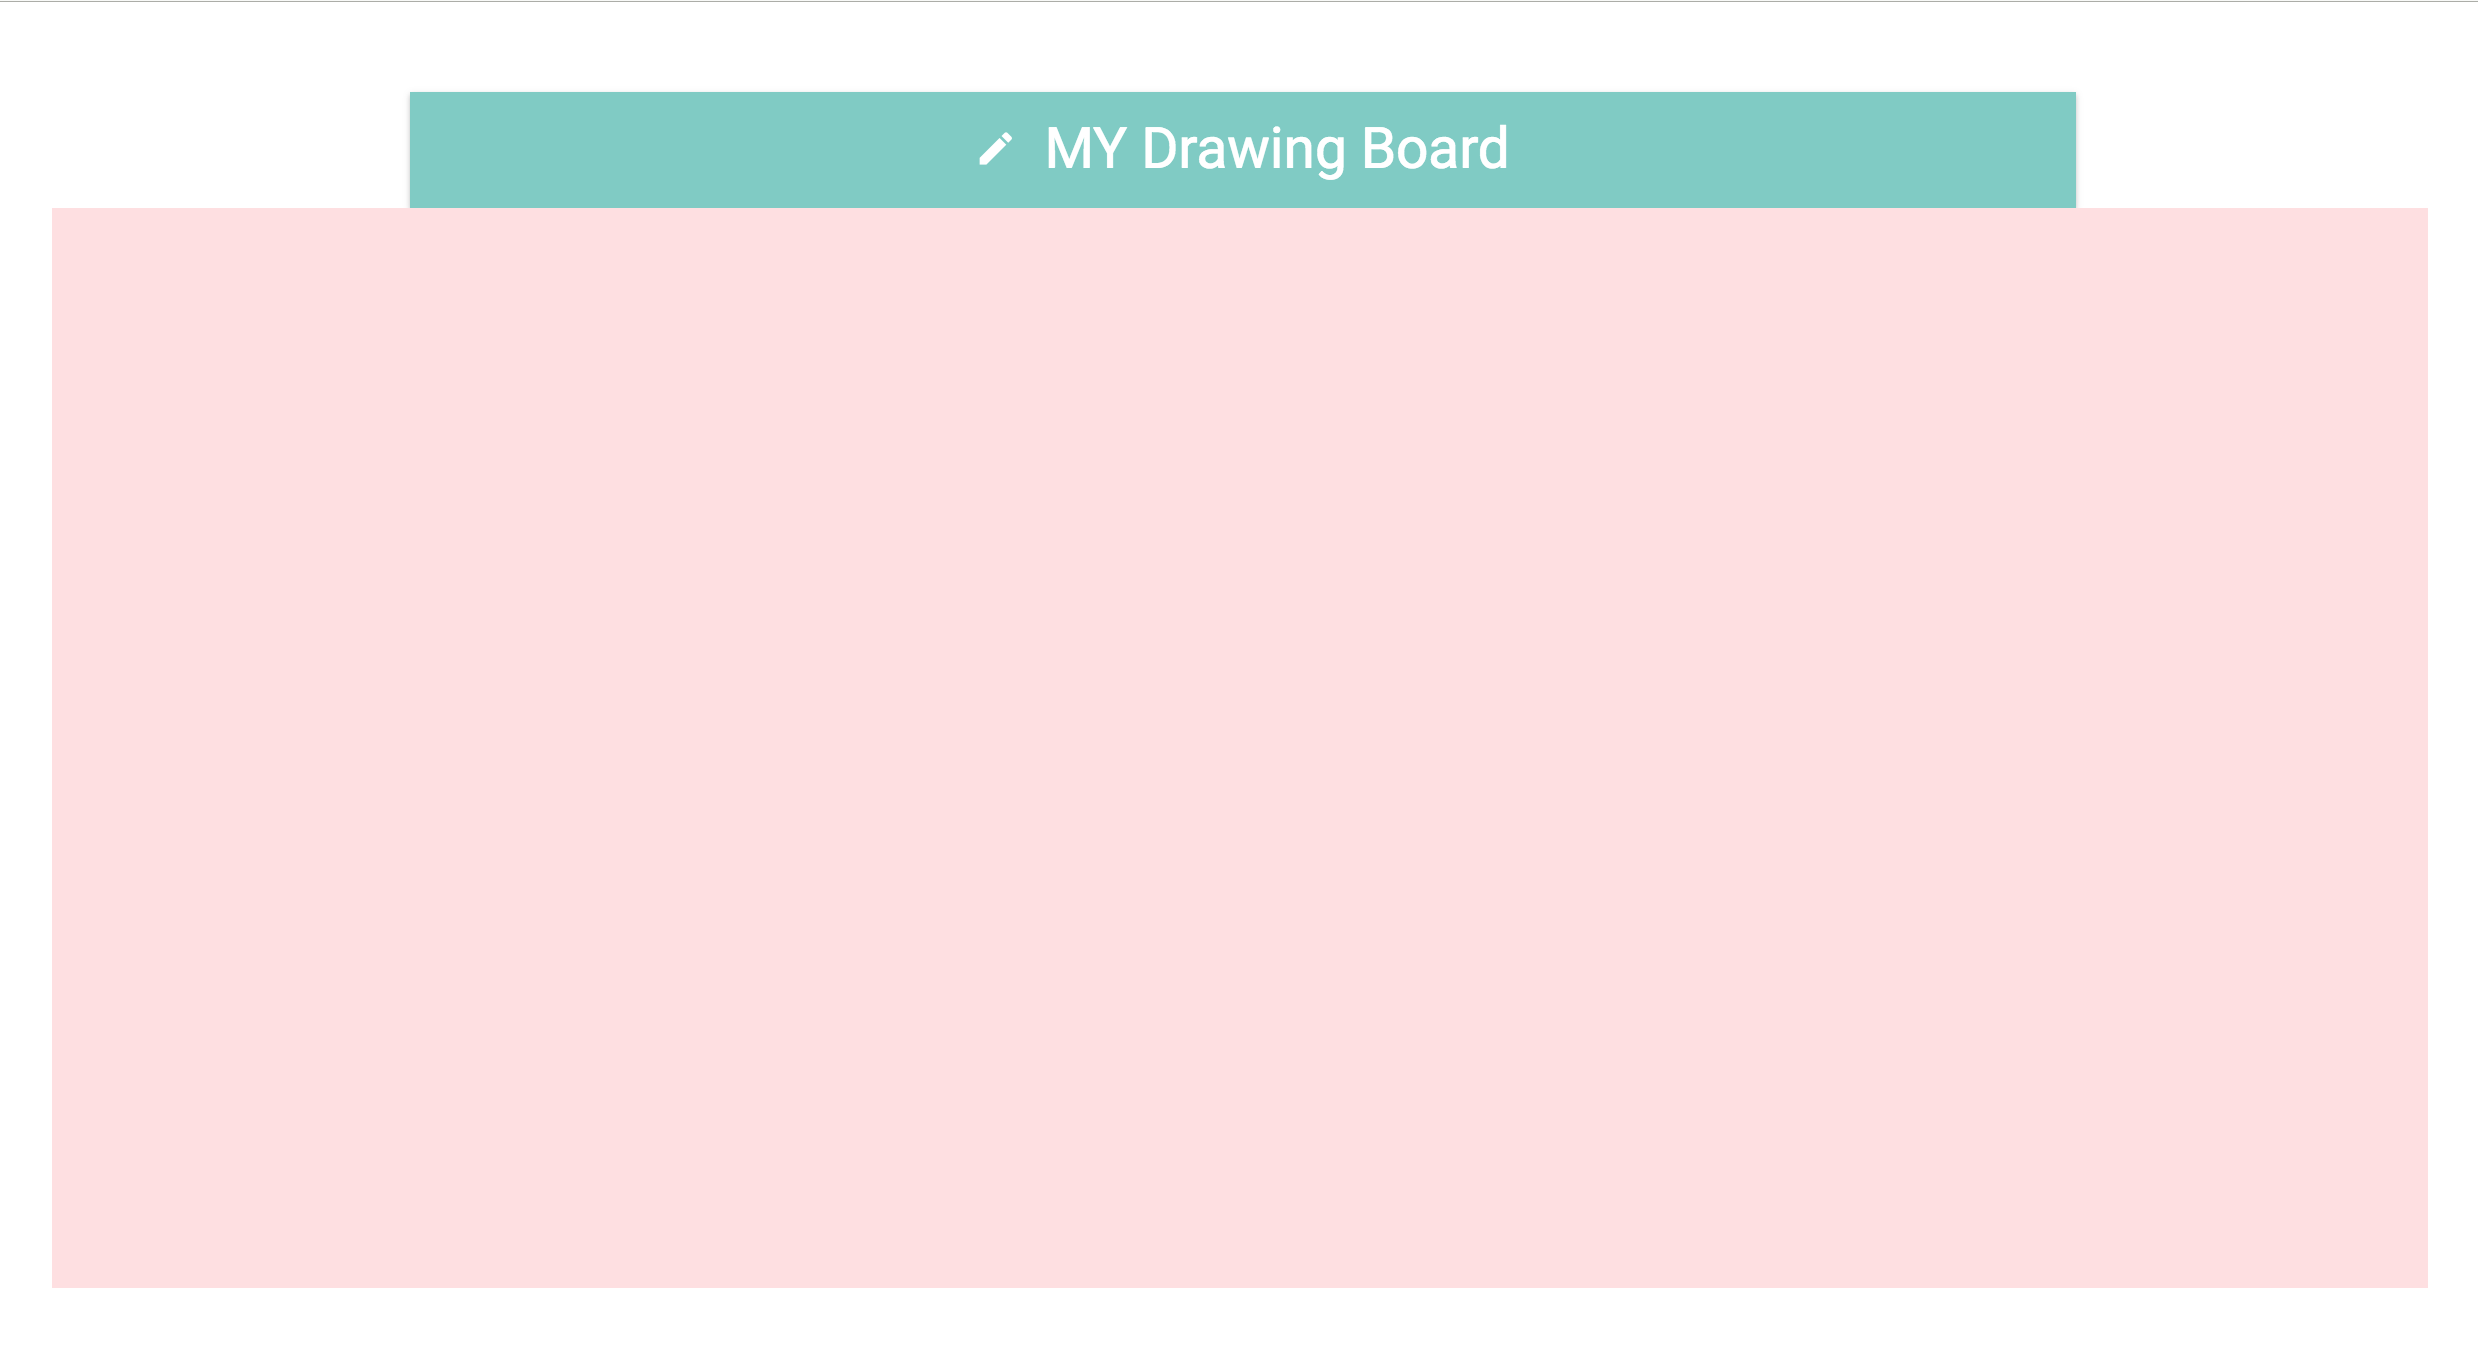
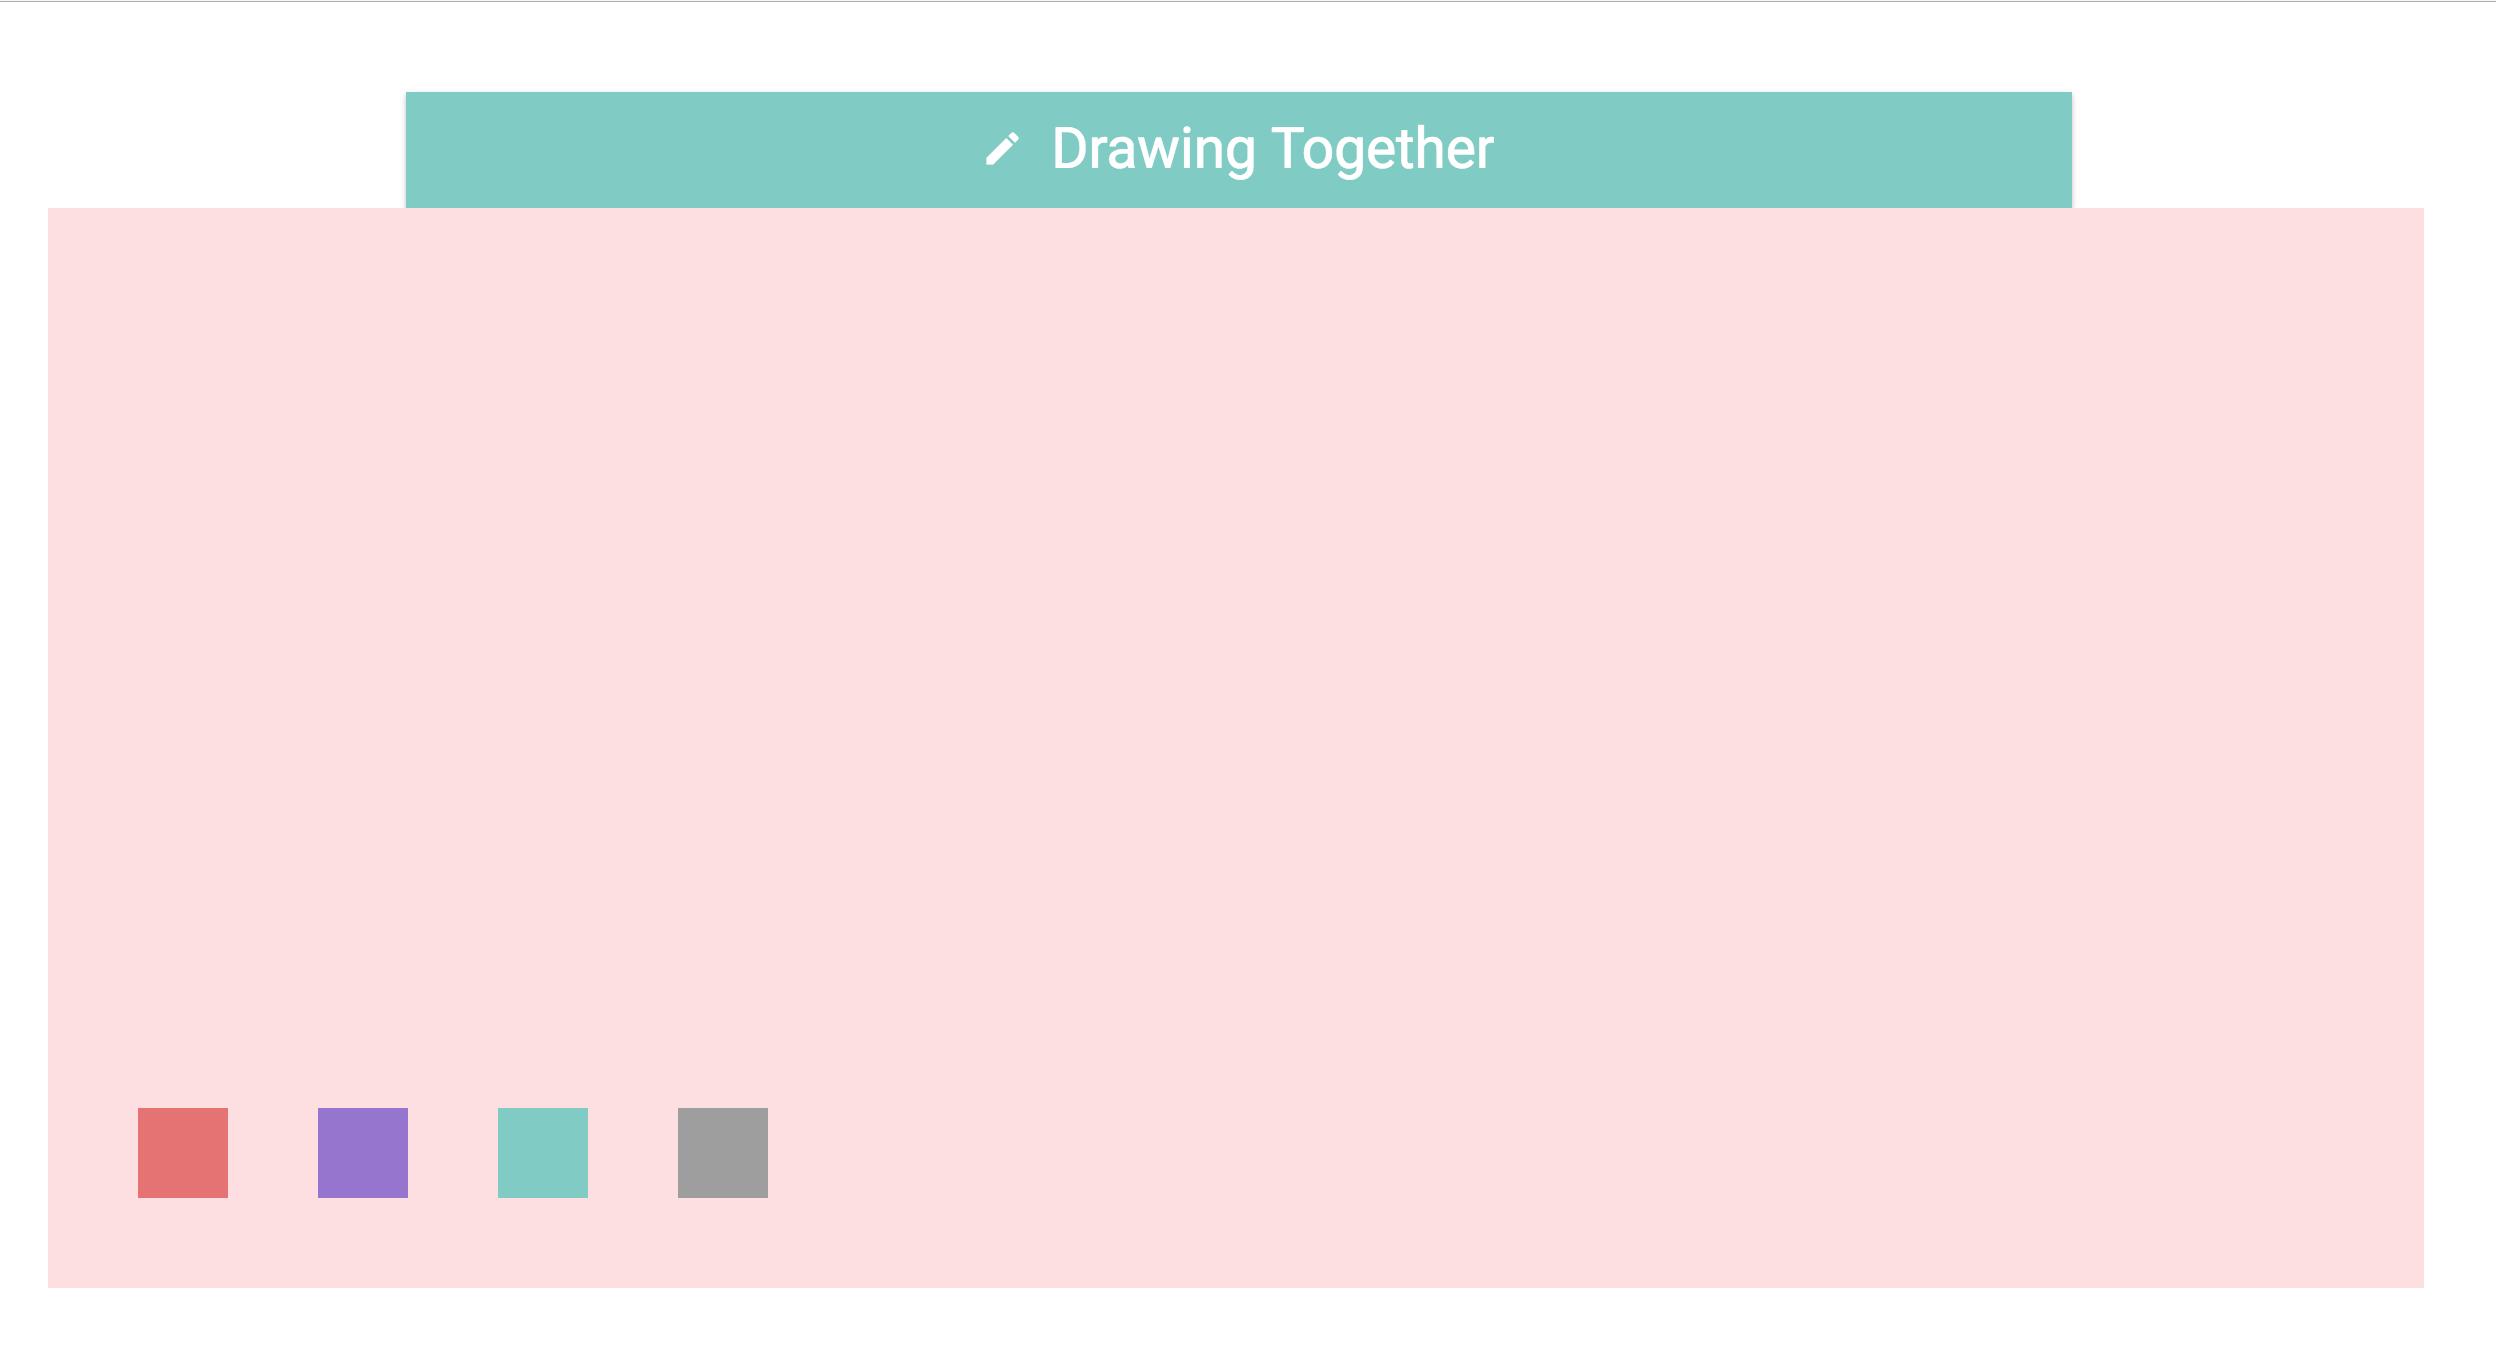
update

diff --git a/public/sketch.js b/public/sketch.js
@@ -1,17 +1,56 @@
 var socket;
+// var brush;
+var stage = 0;
+
+var a;
+var b;
+var c;
+var d;
+var e;
+var f;
+
+
 
 function setup(){
+	// brush = loadImage("image/brush.png");
 	createCanvas(1320,600);
 	background(254,223,225);
 
 	socket = io.connect('http://localhost:3000');
 	socket.on('mouse', newDrawing);
+
+	a = color(229, 115, 115);
+	b = color(149, 117, 205);
+	c = color(128, 203, 196);
+	d = color(158, 158, 158);
+	e = color(255);
+	
+}
+
+function mouseClicked(){
+	if(mouseY>=415 && mouseY<=460){
+		if(mouseX>=30 && mouseX<=180){
+			e = a;
+		}
+		if(mouseX>=130 && mouseX<=280){
+			e = b;
+		}
+		if(mouseX>=230 && mouseX<=380){
+			e = c;
+		}
+		if(mouseX>=330 && mouseX<=380){
+			e = d;
+		}
+
+	}
+	
+
 }
 
 function newDrawing(data){
 	noStroke();
-	fill(158,122,122);
-	ellipse(data.x,data.y, 36, 36);
+	fill(e);
+	rect(data.x+15,data.y+90, 10, 10);
 }
 
 function mouseDragged(){
@@ -23,9 +62,21 @@ function mouseDragged(){
 	}
 	socket.emit('mouse',data);
 	noStroke();
-	fill(255);
-	ellipse(mouseX, mouseY, 36, 36);
+	fill(e);
+	rect(mouseX+15, mouseY+90, 10, 10);
+
 }
+
+
 function draw(){
-	
+	noStroke();
+	fill(a);
+	rect(50,500,50,50);
+	fill(b);
+	rect(150,500,50,50);
+	fill(c);
+	rect(250,500,50,50);
+	fill(d);
+	rect(350,500,50,50);
+
 }

diff --git a/public/index.html b/public/index.html
@@ -3,6 +3,7 @@
   <head>
     <meta charset="UTF-8">
     <title>Drawing board</title>
+    <link rel="stylesheet" href="css/style.css">
     <link href="http://fonts.googleapis.com/icon?family=Material+Icons" rel="stylesheet">
     <link rel="stylesheet" href="https://cdnjs.cloudflare.com/ajax/libs/materialize/0.98.2/css/materialize.min.css">
     <script src="https://cdnjs.cloudflare.com/ajax/libs/socket.io/1.7.3/socket.io.js"></script>
@@ -21,10 +22,9 @@
   <body>
   <div class="container">
 
-
   <nav>
     <div class="nav-wrapper teal lighten-3">
-      <a href="index.html" class="brand-logo center"><i class="material-icons">mode_edit</i>MY Drawing Board</a>
+      <a href="index.html" class="brand-logo center"><i class="material-icons">mode_edit</i>Drawing Together</a>
     </div>
     </nav>
 

diff --git a/public/css/style.css b/public/css/style.css
@@ -1,0 +1,4 @@
+
+.gr__localhost{
+   cursor: url(../image/brush.png), auto;
+}
